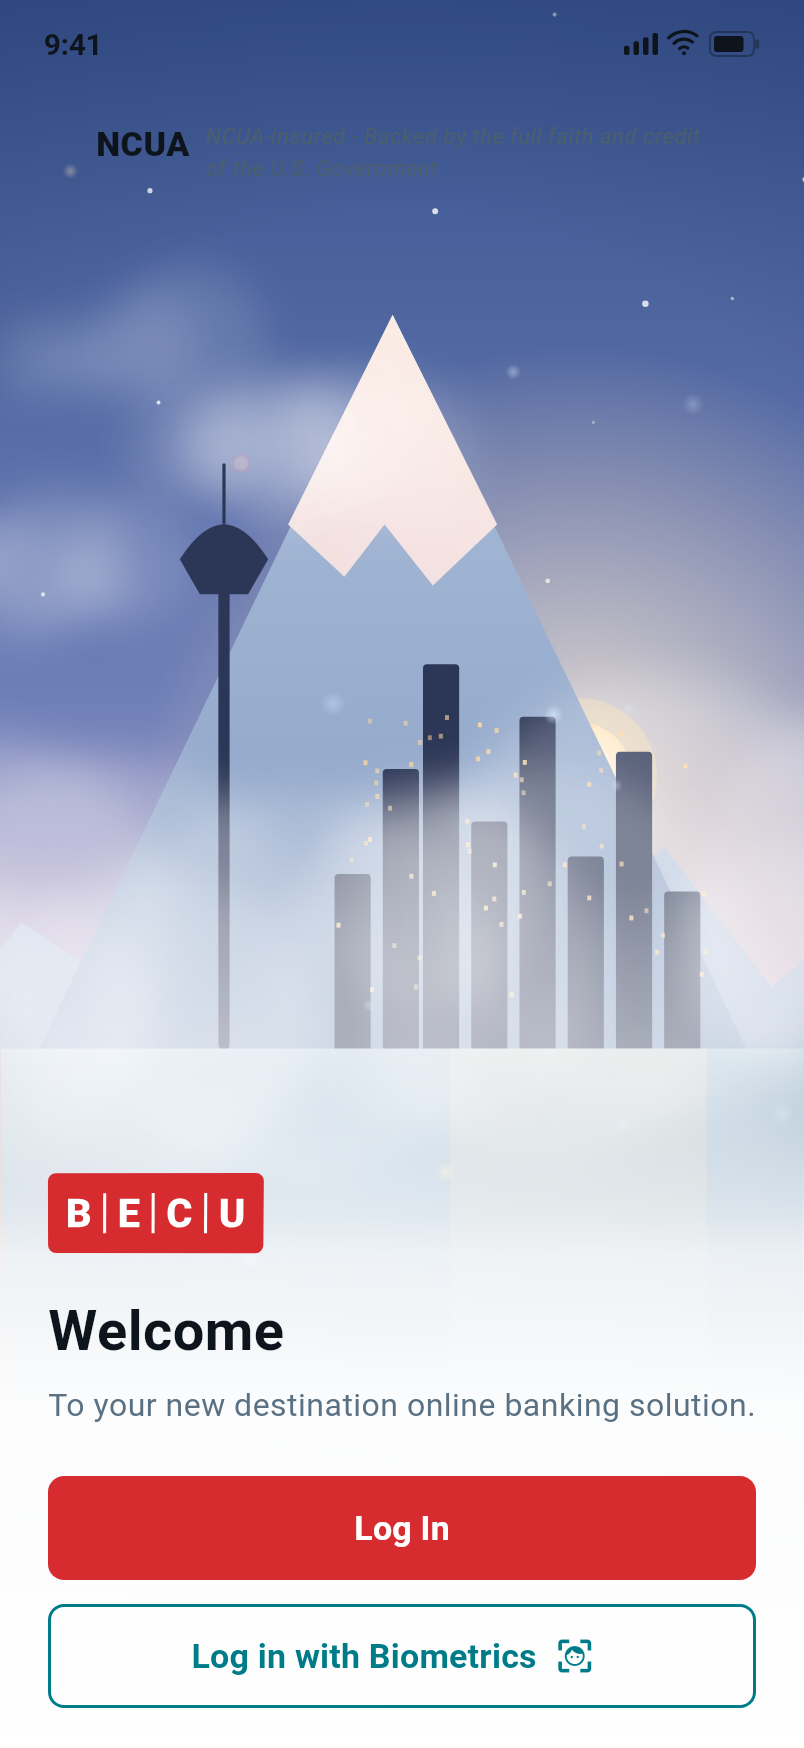
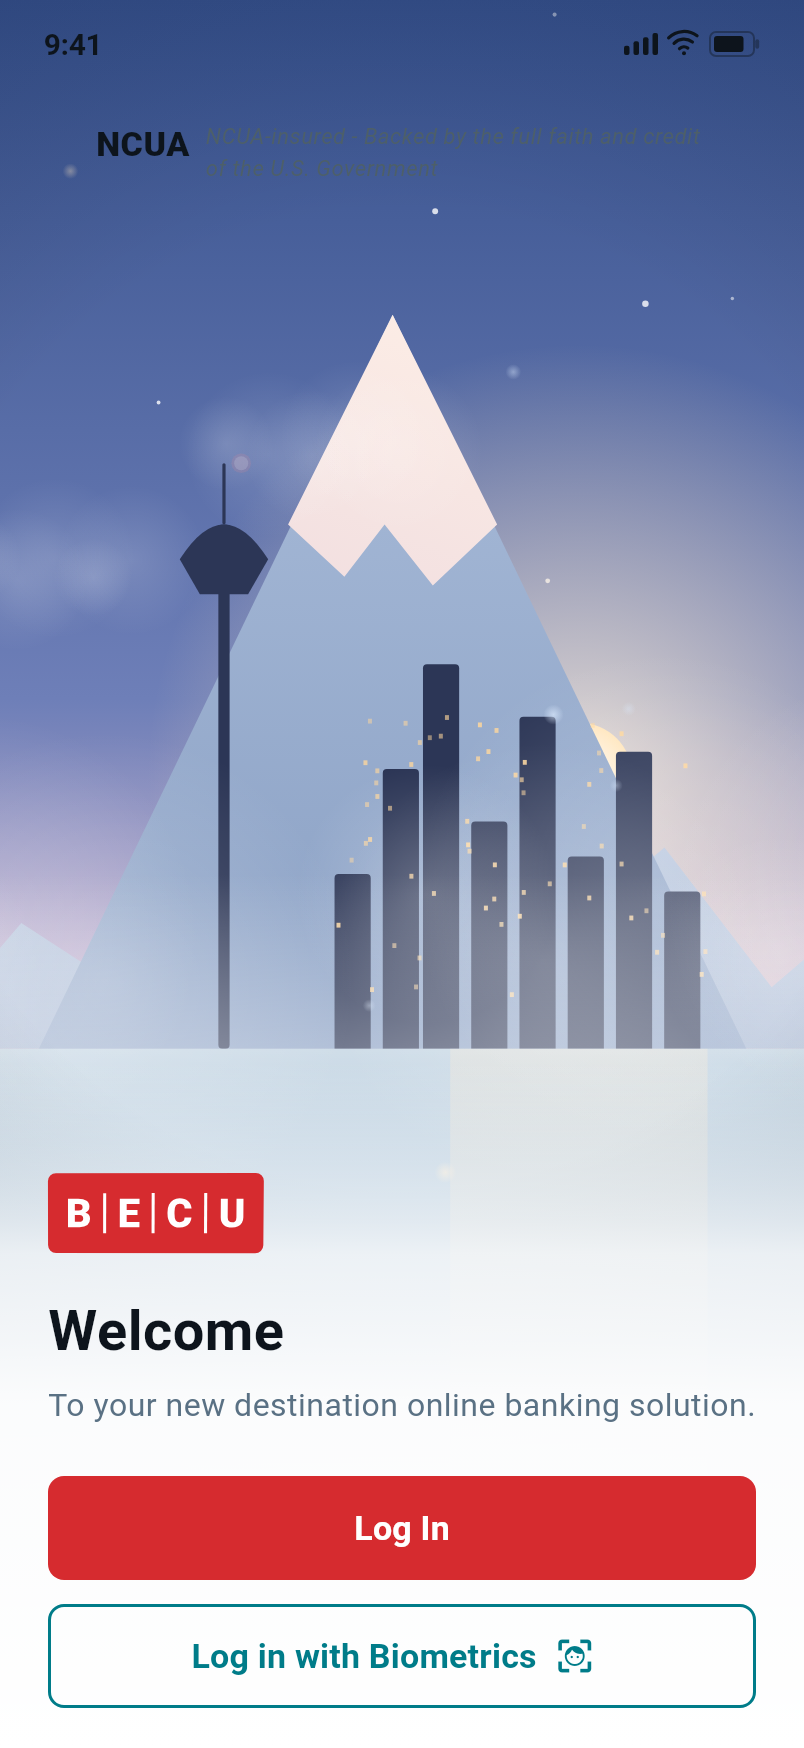
Lighten the login scene for software-rendered emulators
The animated welcome backdrop was crashing the user's unaccelerated
(swiftshader) emulator. Remove the GPU-expensive bits that software GL
handles poorly: MaskFilter blurs on clouds and haze (now soft radial-
gradient puffs / plain gradient), the fragment-shader water shimmer, and
the sun's blurred BoxShadow. Cut animated element counts (particles 16->8,
clouds per band 3-4->2, stars 10->6). The scene looks essentially the same
but renders far cheaper.

Claude-Session: https://claude.ai/code/session_01NuCKxaSF8m2VXGLc8nwLxh

Changed region(s): [[0.0, 0.4016, 0.9017, 0.6487], [0.0622, 0.1545, 0.4353, 0.3089], [0.0622, 0.3398, 0.0933, 0.3707]]

diff --git a/lib/widgets/login_scene/login_scene.dart b/lib/widgets/login_scene/login_scene.dart
@@ -112,13 +112,6 @@ class LoginScene extends StatelessWidget {
               gradient: RadialGradient(
                 colors: [Colors.white, Color(0xFFFFE6BE)],
               ),
-              boxShadow: [
-                BoxShadow(
-                  color: Color(0x66FFE3B0),
-                  blurRadius: 48,
-                  spreadRadius: 12,
-                ),
-              ],
             ),
           ),
         ),
@@ -211,14 +204,7 @@ class LoginScene extends StatelessWidget {
     return Positioned.fill(
       child: CustomPaint(painter: _WaterPainter(horizon: _horizon))
           .animate()
-          .fadeIn(delay: 760.ms, duration: 1200.ms)
-          .animate(onPlay: (c) => c.repeat())
-          .shimmer(
-            delay: 1600.ms,
-            duration: 3200.ms,
-            color: Colors.white.withValues(alpha: 0.22),
-            angle: 0.2,
-          ),
+          .fadeIn(delay: 760.ms, duration: 1200.ms),
     );
   }
 
@@ -236,7 +222,7 @@ class LoginScene extends StatelessWidget {
 
   List<Widget> _stars(Size size) {
     final rng = math.Random(5);
-    return List.generate(10, (i) {
+    return List.generate(6, (i) {
       final x = rng.nextDouble() * size.width;
       final y = rng.nextDouble() * size.height * 0.34;
       final s = 1.5 + rng.nextDouble() * 1.8;
@@ -266,7 +252,7 @@ class LoginScene extends StatelessWidget {
     final w = size.width;
     final h = size.height;
     final rng = math.Random(near ? 41 : 17);
-    final count = near ? 3 : 4;
+    final count = 2; // fewer for software-rendered GPUs
     return List.generate(count, (i) {
       final depth = near ? 0.7 + rng.nextDouble() * 0.3 : rng.nextDouble() * 0.4;
       final cw = w * (near ? 0.5 : 0.34) * (0.7 + depth);
@@ -301,7 +287,7 @@ class LoginScene extends StatelessWidget {
     final w = size.width;
     final h = size.height;
     final rng = math.Random(23);
-    return List.generate(16, (i) {
+    return List.generate(8, (i) {
       final depth = rng.nextDouble();
       final s = 3.0 + depth * 9.0;
       final x = rng.nextDouble() * w;
@@ -582,8 +568,7 @@ class _HazePainter extends CustomPainter {
             Colors.white.withValues(alpha: 0.34),
             Colors.white.withValues(alpha: 0.0),
           ],
-        ).createShader(band)
-        ..maskFilter = const MaskFilter.blur(BlurStyle.normal, 16),
+        ).createShader(band),
     );
   }
 
@@ -599,15 +584,19 @@ class _CloudPainter extends CustomPainter {
   @override
   void paint(Canvas canvas, Size size) {
     final rng = math.Random(seed);
-    final paint = Paint()
-      ..color = Colors.white.withValues(alpha: alpha)
-      ..maskFilter = const MaskFilter.blur(BlurStyle.normal, 10);
     final cy = size.height * 0.6;
     final puffs = 4 + rng.nextInt(3);
     for (var i = 0; i < puffs; i++) {
       final px = size.width * (0.12 + 0.76 * (i / (puffs - 1)));
       final py = cy + (rng.nextDouble() - 0.5) * size.height * 0.4;
-      final r = size.height * (0.4 + rng.nextDouble() * 0.45);
+      final r = size.height * (0.45 + rng.nextDouble() * 0.5);
+      final paint = Paint()
+        ..shader = RadialGradient(
+          colors: [
+            Colors.white.withValues(alpha: alpha),
+            Colors.white.withValues(alpha: 0),
+          ],
+        ).createShader(Rect.fromCircle(center: Offset(px, py), radius: r));
       canvas.drawCircle(Offset(px, py), r, paint);
     }
   }
